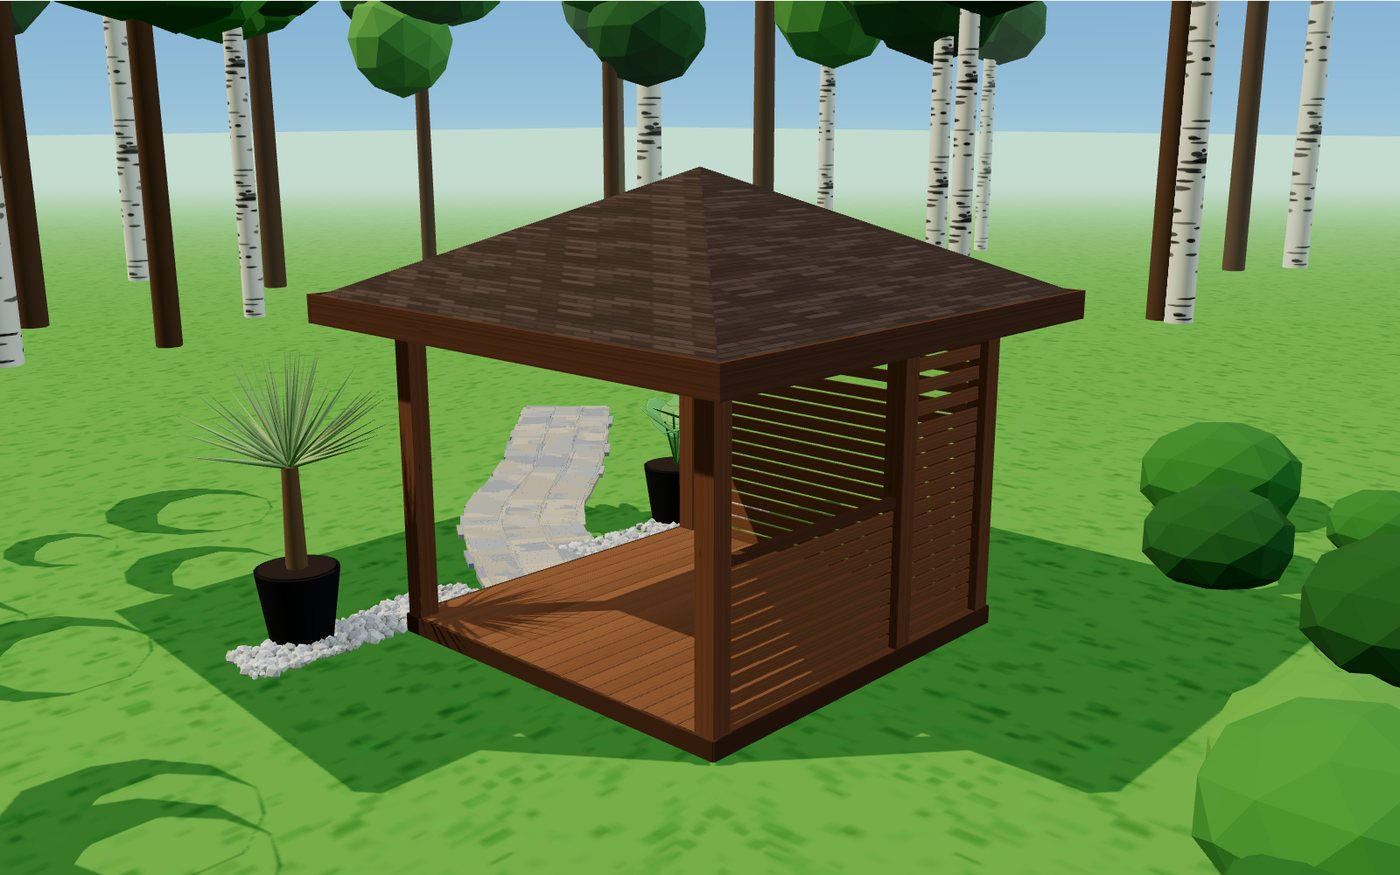
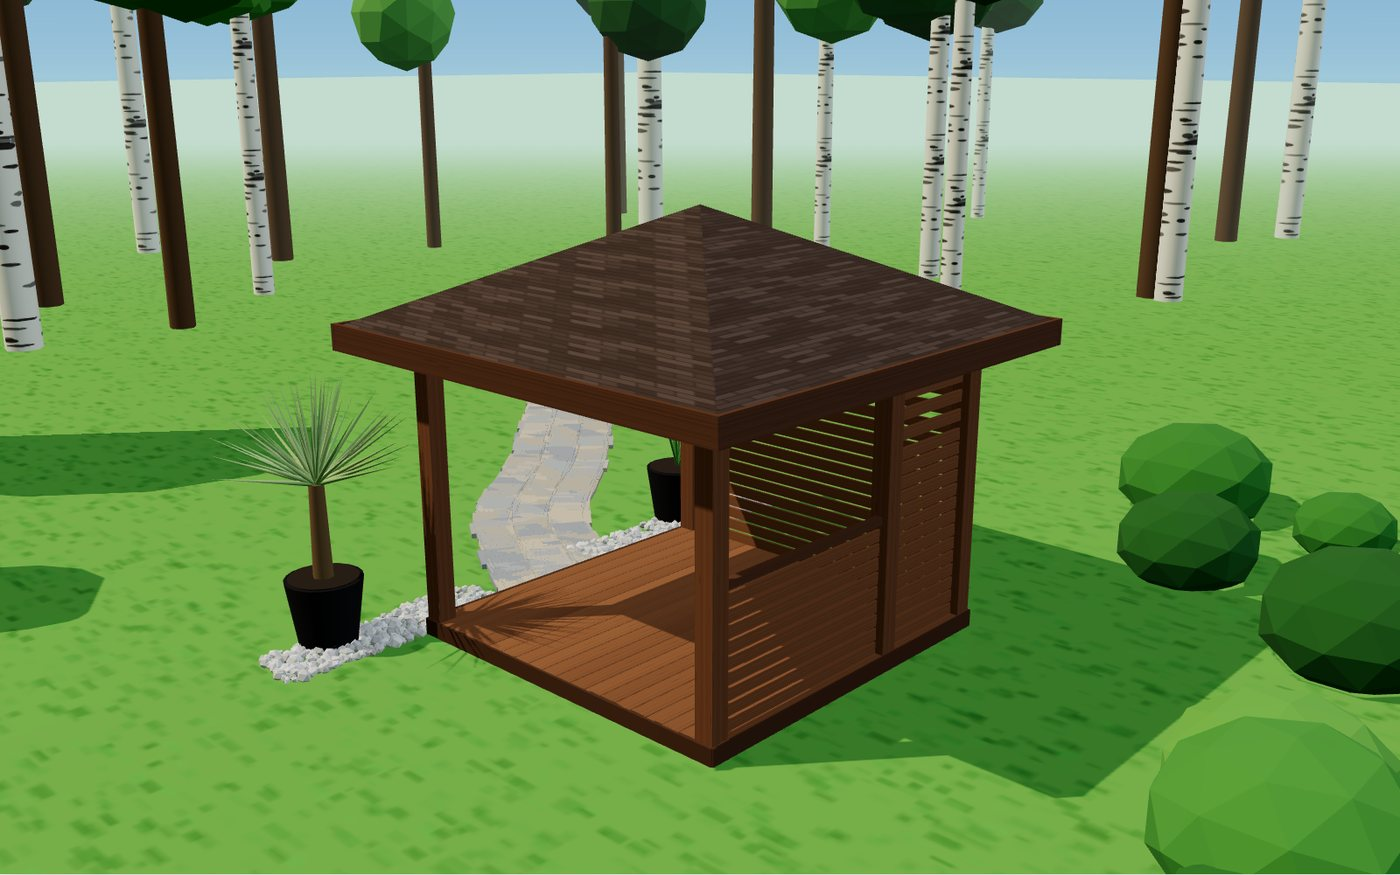
Беседка: облёт только автоматический, камера всегда смотрит на центр беседки
Убраны ручное вращение, зум и кнопки видов; расстояние камеры подбирается
по размеру экрана; обновлены статичные визуализации.

Claude-Session: https://claude.ai/code/session_011WyLv3f91ohrmJJKJdSHNJ

diff --git a/js/gazebo.js b/js/gazebo.js
@@ -408,15 +408,20 @@ const culls = [];   // деревья и кусты: прячем, если за
   }
 }
 
-// ---------- камера: только облёт ----------
-const TARGET = new THREE.Vector3(0, 1.45, 0);
-const view = { th: 0.6, ph: 0.34, r: 10.5 };
-const PH_MIN = 0.06, PH_MAX = 1.5, R_MIN = 5.5, R_MAX = 18;
-let autoEnabled = true;       // кнопка «Облёт»
-let idleTimer = 0;            // пауза после ручного движения
-let tween = null;
-let speed = 1;
+// ---------- камера: только автоматический облёт ----------
+// Точка, вокруг которой летит камера, — геометрический центр беседки вместе с крышей
+// (по высоте 0…3,35 м), поэтому беседка всегда остаётся в центре кадра.
+const TARGET = new THREE.Vector3(0, 1.6, 0);
+const SPHERE = 3.0;                       // радиус сферы, описанной вокруг беседки с кровлей
+const ELEV = 0.3;                         // постоянный угол места камеры
+const view = { th: 0.6, ph: ELEV, r: 12 };
+let fitR = 12;                            // расстояние, при котором беседка занимает ~80% кадра
 
+function updateFit() {
+  const vf = camera.fov * Math.PI / 180;
+  const hf = 2 * Math.atan(Math.tan(vf / 2) * camera.aspect);
+  fitR = SPHERE / Math.sin(Math.min(vf, hf) / 2) * 1.08;
+}
 function applyCamera() {
   const c = Math.cos(view.ph);
   camera.position.set(
@@ -427,75 +432,12 @@ function applyCamera() {
   camera.lookAt(TARGET);
 }
 
-const PRESETS = {
-  s:  { th: 0,               ph: 0.16, r: 10.5 },
-  se: { th: Math.PI / 4,     ph: 0.3,  r: 10 },
-  ne: { th: 3 * Math.PI / 4, ph: 0.3,  r: 10 },
-  nw: { th: -3 * Math.PI / 4, ph: 0.3, r: 10 },
-  sw: { th: -Math.PI / 4,    ph: 0.3,  r: 10 },
-  top: { th: 0,              ph: 1.45, r: 13 }
-};
-function goTo(name) {
-  const p = PRESETS[name]; if (!p) return;
-  let d = p.th - view.th; d = Math.atan2(Math.sin(d), Math.cos(d));    // кратчайший поворот
-  tween = { t: 0, dur: 1.3, from: { ...view }, to: { th: view.th + d, ph: p.ph, r: p.r } };
-  setAuto(false);
-  document.querySelectorAll('#g-places [data-v]').forEach(b => b.classList.toggle('on', b.dataset.v === name));
-}
-function setAuto(on) {
-  autoEnabled = on;
-  const b = document.getElementById('g-auto');
-  b.classList.toggle('on', on);
-  b.textContent = on ? '⏸ Облёт' : '▶ Облёт';
-  if (on) { tween = null; document.querySelectorAll('#g-places [data-v]').forEach(x => x.classList.remove('on')); }
-}
-const ease = t => t < 0.5 ? 4 * t * t * t : 1 - Math.pow(-2 * t + 2, 3) / 2;
-
-// ручное управление (вращение + приближение)
-const ptrs = new Map();
-let lastPinch = 0;
-canvas.addEventListener('pointerdown', e => {
-  canvas.setPointerCapture(e.pointerId);
-  ptrs.set(e.pointerId, { x: e.clientX, y: e.clientY });
-  tween = null; idleTimer = 3;
-  rootEl.classList.add('drag');
-  if (ptrs.size === 2) { const [a, b] = [...ptrs.values()]; lastPinch = Math.hypot(a.x - b.x, a.y - b.y); }
-});
-canvas.addEventListener('pointermove', e => {
-  const p = ptrs.get(e.pointerId); if (!p) return;
-  const dx = e.clientX - p.x, dy = e.clientY - p.y;
-  p.x = e.clientX; p.y = e.clientY;
-  idleTimer = 3;
-  if (ptrs.size === 1) {
-    view.th -= dx * 0.0052;
-    view.ph = Math.min(PH_MAX, Math.max(PH_MIN, view.ph + dy * 0.0042));
-  } else if (ptrs.size === 2) {
-    const [a, b] = [...ptrs.values()]; const d = Math.hypot(a.x - b.x, a.y - b.y);
-    view.r = Math.min(R_MAX, Math.max(R_MIN, view.r * (lastPinch / d))); lastPinch = d;
-  }
-});
-const endPtr = e => { ptrs.delete(e.pointerId); if (!ptrs.size) rootEl.classList.remove('drag'); };
-canvas.addEventListener('pointerup', endPtr);
-canvas.addEventListener('pointercancel', endPtr);
-canvas.addEventListener('wheel', e => {
-  e.preventDefault();
-  view.r = Math.min(R_MAX, Math.max(R_MIN, view.r * (1 + Math.sign(e.deltaY) * 0.08)));
-  idleTimer = 3; tween = null;
-}, { passive: false });
-
-// кнопки
-document.getElementById('g-auto').addEventListener('click', () => setAuto(!autoEnabled));
-document.querySelectorAll('#g-places [data-v]').forEach(b => b.addEventListener('click', () => goTo(b.dataset.v)));
+// кнопки: только крыша и полный экран
 const roofBtn = document.getElementById('g-roof');
 roofBtn.addEventListener('click', () => {
   roofGroup.visible = !roofGroup.visible;
   roofBtn.classList.toggle('on', roofGroup.visible);
   roofBtn.textContent = roofGroup.visible ? 'Крыша: вкл' : 'Крыша: выкл';
-});
-const speedBtn = document.getElementById('g-speed');
-speedBtn.addEventListener('click', () => {
-  speed = speed === 1 ? 2 : speed === 2 ? 0.5 : 1;
-  speedBtn.textContent = speed === 1 ? 'Скорость ×1' : `Скорость ×${speed}`;
 });
 document.getElementById('g-fs').addEventListener('click', () => toggleFs());
 function toggleFs(force) {
@@ -546,33 +488,24 @@ function resize() {
   // на узких экранах — шире угол, чтобы беседка помещалась
   camera.fov = w / h < 0.9 ? 52 : w / h < 1.3 ? 44 : 36;
   camera.updateProjectionMatrix();
+  updateFit();
+  applyCamera();
+  renderer.render(scene, camera);   // сразу перерисовываем, чтобы не было пустого кадра после изменения размера
 }
 new ResizeObserver(resize).observe(rootEl);
 resize();
 
-let visible = true, last = performance.now(), clock = 0;
+let visible = true, last = performance.now();
 new IntersectionObserver(es => { visible = es[0].isIntersecting; }, { threshold: 0.05 }).observe(rootEl);
 
 function frame(now) {
   requestAnimationFrame(frame);
   const dt = Math.min(0.05, (now - last) / 1000); last = now;
   if (!visible || document.hidden) return;
-  clock += dt;
-  if (tween) {
-    tween.t += dt / tween.dur;
-    const k = ease(Math.min(1, tween.t));
-    view.th = tween.from.th + (tween.to.th - tween.from.th) * k;
-    view.ph = tween.from.ph + (tween.to.ph - tween.from.ph) * k;
-    view.r = tween.from.r + (tween.to.r - tween.from.r) * k;
-    if (tween.t >= 1) tween = null;
-  } else if (autoEnabled && !stillMode) {
-    if (idleTimer > 0) idleTimer -= dt;
-    else {
-      view.th += dt * 0.13 * speed;                                   // полный круг ≈ 48 с
-      const wob = Math.sin(clock * 0.22 * speed);
-      view.ph += ((0.30 + 0.12 * wob) - view.ph) * Math.min(1, dt * 1.2);
-      view.r += ((10.4 + 1.3 * Math.sin(clock * 0.15 * speed)) - view.r) * Math.min(1, dt * 1.2);
-    }
+  if (!stillMode) {
+    view.th += dt * 0.14;                                          // полный круг ≈ 45 с
+    view.ph = ELEV;
+    view.r += (fitR - view.r) * Math.min(1, dt * 3);               // плавно подстраиваем под размер экрана
   }
   applyCamera();
   updateCulls();
@@ -582,11 +515,11 @@ function frame(now) {
 
 // режим для статичных кадров (?still) — используется при подготовке картинок
 const stillMode = new URLSearchParams(location.search).has('still');
-if (stillMode) setAuto(false);
 window.gazebo3d = {
-  setView(th, ph, r) { view.th = th; view.ph = ph; view.r = r; tween = null; applyCamera(); updateCulls(); renderer.render(scene, camera); },
+  setView(th, ph, r) { view.th = th; view.ph = ph; view.r = r; applyCamera(); updateCulls(); renderer.render(scene, camera); },
   setRoof(v) { roofGroup.visible = v; },
   get view() { return { ...view }; },
+  get fit() { return fitR; },
   resize
 };
 

diff --git a/gazebo.html b/gazebo.html
@@ -105,7 +105,7 @@
   <section id="model" class="block">
     <div class="wrap">
       <h2><span class="num">3</span> 3D-модель с облётом</h2>
-      <p class="sub">Камера сама облетает беседку и показывает её со всех сторон. Можно остановить облёт, повернуть модель мышью или пальцем, приблизить колесом или щипком, выбрать вид кнопками и убрать крышу.</p>
+      <p class="sub">Камера сама облетает беседку по кругу и показывает её со всех сторон. Кнопкой можно убрать крышу и посмотреть конструкцию.</p>
 
       <div class="tour g3d" id="g-root">
         <canvas id="g-canvas"></canvas>
@@ -115,22 +115,12 @@
         <div class="hud" id="g-hud">
           <div class="g-top">
             <div class="g-ctrl">
-              <button class="chip-btn on" id="g-auto">⏸ Облёт</button>
-              <button class="chip-btn" id="g-speed">Скорость ×1</button>
               <button class="chip-btn on" id="g-roof">Крыша: вкл</button>
             </div>
             <div class="hud-right">
               <canvas id="g-compass" width="132" height="132"></canvas>
               <button class="icon-btn" id="g-fs" title="Во весь экран" aria-label="Во весь экран">⛶</button>
             </div>
-          </div>
-          <div class="places" id="g-places">
-            <button data-v="s">Фасад (юг)</button>
-            <button data-v="se">Юго-восток</button>
-            <button data-v="ne">Северо-восток</button>
-            <button data-v="nw">Северо-запад</button>
-            <button data-v="sw">Юго-запад</button>
-            <button data-v="top">Сверху</button>
           </div>
         </div>
       </div>

diff --git a/gazebo.css b/gazebo.css
@@ -5,8 +5,7 @@
 .zoom img[src$=".svg"]{background:#fff}
 
 /* 3D-вьюер с облётом */
-.tour.g3d{cursor:grab;background:#cfe4ea}
-.tour.g3d.drag{cursor:grabbing}
+.tour.g3d{cursor:default;background:#cfe4ea;touch-action:auto}
 .g3d .hud{display:flex;flex-direction:column;justify-content:space-between;padding:12px;pointer-events:none}
 .g3d .hud[hidden]{display:none}
 .g3d .hud>*{pointer-events:none}
@@ -20,7 +19,7 @@
 #g-compass{width:96px;height:96px;background:rgba(255,255,255,.9);border-radius:10px;box-shadow:0 2px 10px rgba(0,0,0,.2)}
 .g-fail{position:absolute;inset:0;display:grid;place-items:center;padding:24px;text-align:center;background:var(--alt);color:var(--muted);font-weight:600;z-index:5}
 .g-fail[hidden]{display:none}
-.g3d canvas#g-canvas{touch-action:none}
+.g3d canvas#g-canvas{touch-action:auto;pointer-events:none}
 
 @media (max-width:760px){
   .g3d .places{flex-wrap:nowrap;overflow-x:auto;padding-bottom:4px;max-width:100%}
